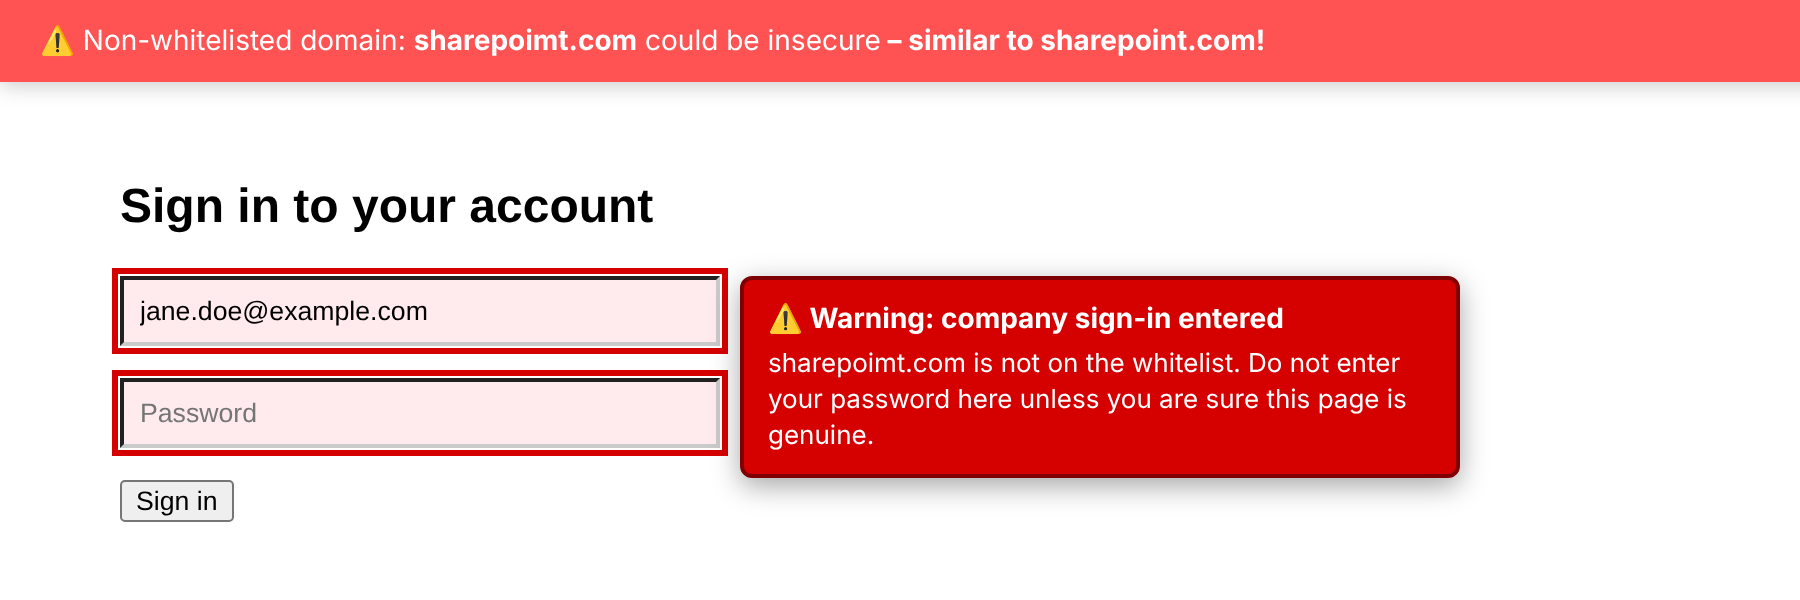
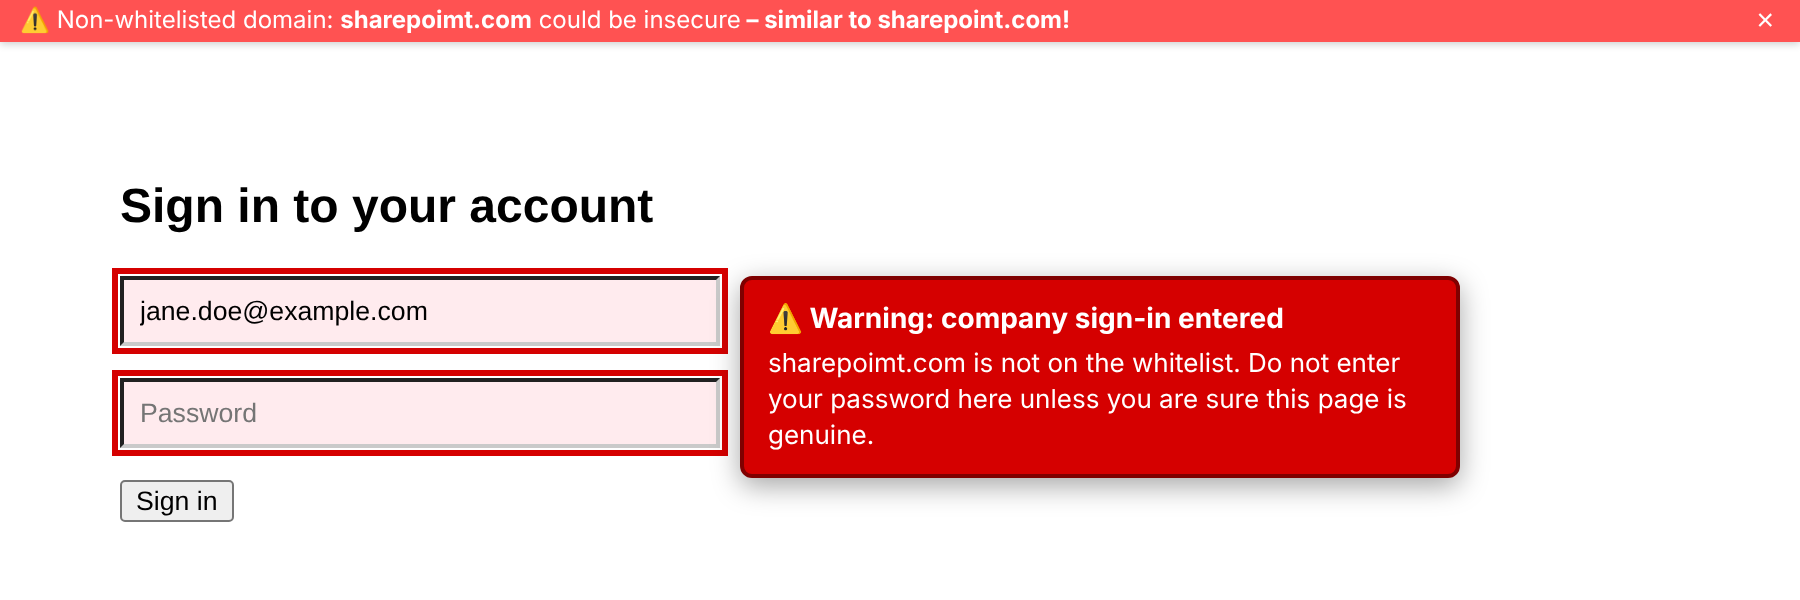
feat: slim warning bar by default, height adjustable
The bar is one small line by default (22px instead of 50px); users can
switch to the normal height in the popup, administrators can fix it by
policy (warningBarSize). Also keeps the close button inside the window.

Claude-Session: https://claude.ai/code/session_01Eao7JCDyTYD7DYUftm2gS2

Changed region(s): [[0.0, 0.0, 1.0, 0.15]]

diff --git a/src/common.js b/src/common.js
@@ -374,6 +374,10 @@ function parseUserBlockedCountries(list) {
 const GEO_PROVIDERS = ["ipwhois", "geojs", "ipapi"];
 const DEFAULT_GEO_PROVIDER = "ipwhois";
 
+// Heights of the warning bar
+const WARNING_BAR_SIZES = ["slim", "normal"];
+const DEFAULT_WARNING_BAR_SIZE = "slim";
+
 // Effective settings: organization policy combined with the user's own.
 async function loadSettings() {
   const [policy, syncData] = await Promise.all([
@@ -390,7 +394,14 @@ async function loadSettings() {
     enableCountryBlock: typeof policy.enableCountryBlock === "boolean",
     enableWarningBar: typeof policy.enableWarningBar === "boolean",
     geoProvider: GEO_PROVIDERS.includes(policy.geoProvider),
+    warningBarSize: WARNING_BAR_SIZES.includes(policy.warningBarSize),
   };
+  let warningBarSize = locked.warningBarSize
+    ? policy.warningBarSize
+    : syncData.warningBarSize;
+  if (!WARNING_BAR_SIZES.includes(warningBarSize)) {
+    warningBarSize = DEFAULT_WARNING_BAR_SIZE;
+  }
   let geoProvider = locked.geoProvider
     ? policy.geoProvider
     : syncData.geoProvider;
@@ -455,6 +466,7 @@ async function loadSettings() {
     enableWarningBar: locked.enableWarningBar
       ? policy.enableWarningBar
       : syncData.enableWarningBar !== false,
+    warningBarSize,
     geoProvider,
     managedBlockedCountries,
     userBlockedCountries,
@@ -478,6 +490,7 @@ function settingsChanged(changes, areaName) {
       key === "enablePreemptiveChecks" ||
       key === "enableCountryBlock" ||
       key === "enableWarningBar" ||
+      key === "warningBarSize" ||
       key === "geoProvider" ||
       key === "blockedCountries",
   );

diff --git a/src/popup/popup.html b/src/popup/popup.html
@@ -144,6 +144,8 @@
       .toggle {
         position: relative;
         display: inline-block;
+        flex-shrink: 0;
+        margin-left: 10px;
         width: 50px;
         height: 24px;
       }
@@ -222,6 +224,13 @@
       }
       .github-link:hover {
         background-color: #3367d6;
+      }
+      .bar-size-row {
+        margin-top: 4px;
+      }
+      .bar-size-row select {
+        font-size: 12px;
+        padding: 1px 4px;
       }
       .managed-badge {
         background-color: #6c757d;
@@ -320,6 +329,17 @@
           <strong data-i18n="warningBarTitle">Warning Bar</strong>
           <div data-i18n="warningBarText">
             Show a red bar on non-whitelisted pages
+          </div>
+          <div class="bar-size-row">
+            <label for="warning-bar-size" data-i18n="warningBarSizeLabel">
+              Height:
+            </label>
+            <select id="warning-bar-size">
+              <option value="slim" data-i18n="warningBarSizeSlim">Slim</option>
+              <option value="normal" data-i18n="warningBarSizeNormal">
+                Normal
+              </option>
+            </select>
           </div>
           <div
             class="managed-note"

diff --git a/src/styles.css b/src/styles.css
@@ -3,6 +3,8 @@
   top: 0 !important;
   left: 0 !important;
   width: 100% !important;
+  box-sizing: border-box !important;
+  margin: 0 !important;
   background-color: #ff5252 !important;
   color: white !important;
   padding: 10px 20px !important;
@@ -105,4 +107,36 @@
 
 #whitelist-login-warning span {
   color: white !important;
+}
+
+/* Slim variant: one line, small text */
+#whitelist-warning-bar.slim {
+  padding: 2px 10px !important;
+  font-size: 12px !important;
+  line-height: 1.4 !important;
+  gap: 6px !important;
+  box-shadow: 0 1px 4px rgba(0, 0, 0, 0.2) !important;
+}
+
+#whitelist-warning-bar.slim .warning-text {
+  min-width: 0 !important;
+  white-space: nowrap !important;
+  overflow: hidden !important;
+  text-overflow: ellipsis !important;
+}
+
+#whitelist-warning-bar.slim #whitelist-btn,
+#whitelist-warning-bar.slim #wildcard-whitelist-btn {
+  padding: 0 8px !important;
+  margin: 0 !important;
+  font-size: 11px !important;
+  line-height: 1.6 !important;
+  white-space: nowrap !important;
+  flex-shrink: 0 !important;
+}
+
+#whitelist-warning-bar.slim #close-warning-btn {
+  font-size: 15px !important;
+  padding: 0 3px !important;
+  flex-shrink: 0 !important;
 }

diff --git a/scripts/enterprise.js b/scripts/enterprise.js
@@ -92,6 +92,25 @@ const POLICIES = [
     },
   },
   {
+    name: "warningBarSize",
+    type: "enum",
+    options: ["slim", "normal"],
+    en: {
+      title: "Height of the warning bar",
+      enumLabel: "Height",
+      optionLabels: ["Slim (one small line)", "Normal"],
+      explain:
+        "Sets the height of the red warning bar on non-whitelisted pages; users cannot change it.\n\nNot configured: users decide (default: slim).",
+    },
+    de: {
+      title: "Höhe der Warnleiste",
+      enumLabel: "Höhe",
+      optionLabels: ["Schmal (eine kleine Zeile)", "Normal"],
+      explain:
+        "Legt die Höhe der roten Warnleiste auf nicht erlaubten Seiten fest; Benutzer können sie nicht ändern.\n\nNicht konfiguriert: Benutzer entscheiden selbst (Standard: schmal).",
+    },
+  },
+  {
     name: "enableCountryBlock",
     type: "boolean",
     en: {

diff --git a/src/popup/popup.js b/src/popup/popup.js
@@ -82,6 +82,13 @@ document.addEventListener("DOMContentLoaded", function () {
       });
     });
 
+  // Height of the warning bar
+  document
+    .getElementById("warning-bar-size")
+    .addEventListener("change", function () {
+      browserAPI.storage.sync.set({ warningBarSize: this.value });
+    });
+
   // Load countries selector
   loadCountries();
 
@@ -130,6 +137,10 @@ async function loadToggleState() {
     toggle.disabled = settings.locked[key];
     document.getElementById(noteId).hidden = !settings.locked[key];
   }
+
+  const barSize = document.getElementById("warning-bar-size");
+  barSize.value = settings.warningBarSize;
+  barSize.disabled = settings.locked.warningBarSize;
 
   const provider = document.getElementById("geo-provider");
   provider.value = settings.geoProvider;

diff --git a/src/content.js b/src/content.js
@@ -16,11 +16,12 @@ function createButton(id, label, onClick) {
   return button;
 }
 
-async function createWarningBar(domain, allowUserWhitelist, homograph) {
+async function createWarningBar(domain, allowUserWhitelist, homograph, size) {
   removeWarningBar();
 
   const bar = document.createElement("div");
   bar.id = "whitelist-warning-bar";
+  if (size === "slim") bar.classList.add("slim");
   warningBar = bar;
 
   const text = document.createElement("span");
@@ -256,6 +257,7 @@ async function checkDomain() {
         currentDomain,
         settings.allowUserWhitelist,
         analyzeHomograph(currentDomain, settings.whitelist),
+        settings.warningBarSize,
       );
     } else {
       removeWarningBar();

diff --git a/docs/enterprise-gpo.md b/docs/enterprise-gpo.md
@@ -126,6 +126,7 @@ beide Browser nutzt, trage die Liste in beiden Ordnern ein.
 | Benutzer dürfen eigene Domains erlauben | Deaktiviert: nur die Firmen-Whitelist gilt. Andere Seiten lassen sich nach der Warnung weiterhin öffnen, aber nicht dauerhaft erlauben |
 | Bestätigungsseite für nicht erlaubte Domains erzwingen | Aktiviert: Benutzer können die Vorabprüfung nicht abschalten |
 | Warnleiste auf nicht erlaubten Seiten erzwingen | Deaktiviert: Die rote Leiste erscheint nie. Bestätigungsseite und Warnung bei Anmeldung bleiben aktiv |
+| Höhe der Warnleiste | Schmal (eine kleine Zeile, Standard) oder Normal |
 | Länderprüfung erzwingen | Schaltet die Länderabfrage fest ein oder aus |
 | Abfragedienst für die Länderprüfung | Legt den Dienst fest: ipwho.is oder geojs.io (beide verschlüsselt, Auflösung über Google Public DNS) oder ip-api.com (unverschlüsselt). Vor gewerblicher Nutzung die Nutzungsbedingungen des Dienstes prüfen |
 | Firmen-Maildomains (Warnung bei Anmeldung) | Adressen dieser Domains lösen auf nicht erlaubten Seiten eine rote Warnung am Eingabefeld aus |

diff --git a/README.md b/README.md
@@ -98,6 +98,7 @@ Administrators can set these through the generated templates (see `src/managed_s
 | `allowUserWhitelist` | boolean | `false`: users cannot whitelist their own domains |
 | `enablePreemptiveChecks` | boolean | Forces the confirmation page on or off |
 | `enableWarningBar` | boolean | Forces the warning bar on or off |
+| `warningBarSize` | string | Height of the warning bar: `slim` or `normal` |
 | `protectedEmailDomains` | list of strings | Company e-mail domains for the sign-in guard |
 | `protectedLogins` | list of strings | Optional, per user: further sign-in names for the sign-in guard |
 | `noticeText` | string | Note shown on the confirmation page |
